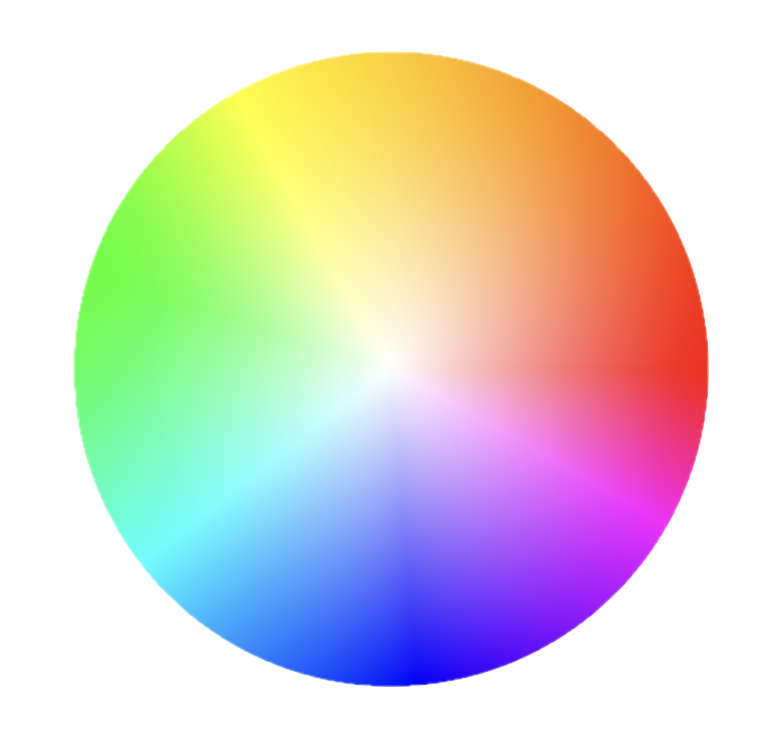
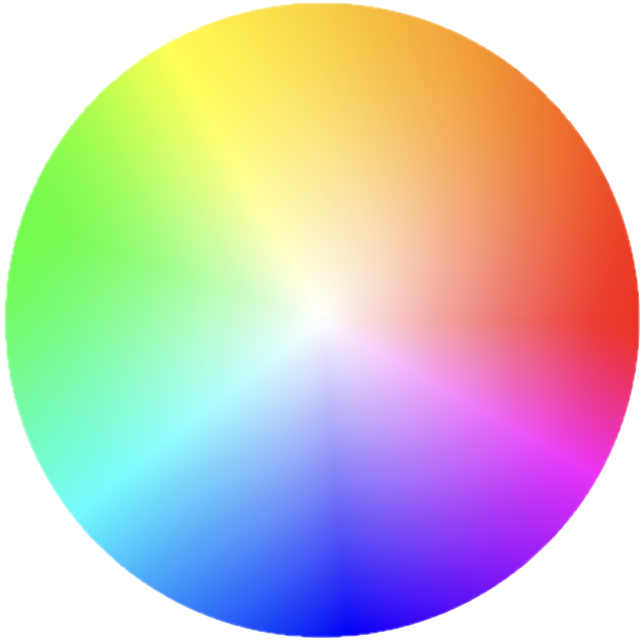
color harmony clean up

diff --git a/color-theory-and-flexible-code/index.html b/color-theory-and-flexible-code/index.html
@@ -1155,18 +1155,53 @@
   <section class="slide">
     <h2>Цветовые гармонии</h2>
     <div class="layout-flex" style="justify-content: center;">
-      <div>
-        <img src="pictures/img/palette-1.png" alt="palette-1" style="height:150px;" />
+      <div class="palette">
+        <span class="palette-name">Монохромная</span>
+        <div class="palette-wheel">
+          <span class="palette-color" style="top:5px;left:78px"></span>
+          <img src="pictures/img/color-wheel.png" alt="palette-1" style="height:130px;" /></div>
       </div>
-      <div>
+      <div class="palette">
+        <span class="palette-name">Комплиментарная</span>
+        <div class="palette-wheel">
+          <span class="palette-color" style="top:5px;left:78px"></span>
+          <span class="palette-color" style="top:100px;left:78px"></span>
+          <img src="pictures/img/color-wheel.png" alt="palette-1" style="height:130px;" /></div>
+      </div>
+      <div class="palette">
+        <span class="palette-name">Аналоговая</span>
+        <div class="palette-wheel">
+          <span class="palette-color" style="top:20px;left:45px"></span>
+          <span class="palette-color" style="top:5px;left:78px"></span>
+          <span class="palette-color" style="top:20px;left:110px"></span>
+          <img src="pictures/img/color-wheel.png" alt="palette-1" style="height:130px;" /></div>
+      </div>
+      <!-- <div>
         <img src="pictures/img/palette-2.png" alt="palette-2" style="height:150px;" />
       </div>
       <div>
         <img src="pictures/img/palette-3.png" alt="palette-3" style="height:150px;" />
-      </div>
+      </div> -->
     </div>
     <div class="layout-flex" style="justify-content: center;">
-      <div>
+      <div class="palette">
+        <span class="palette-name">Триада</span>
+        <div class="palette-wheel">
+          <span class="palette-color" style="top:5px;left:78px"></span>
+          <span class="palette-color" style="top:70px;left:35px"></span>
+          <span class="palette-color" style="top:70px;left:121px"></span>
+          <img src="pictures/img/color-wheel.png" alt="palette-1" style="height:130px;" /></div>
+      </div>
+      <div class="palette">
+        <span class="palette-name">Тетрада</span>
+        <div class="palette-wheel">
+          <span class="palette-color" style="top:20px;left:45px"></span>
+          <span class="palette-color" style="top:20px;left:110px"></span>
+          <span class="palette-color" style="top:85px;left:45px"></span>
+          <span class="palette-color" style="top:85px;left:110px"></span>
+          <img src="pictures/img/color-wheel.png" alt="palette-1" style="height:130px;" /></div>
+      </div>
+      <!-- <div>
         <img src="pictures/img/palette-4.png" alt="palette-4" style="height:150px;" />
       </div>
       <div>
@@ -1177,7 +1212,7 @@
       </div>
       <div>
         <img src="pictures/img/palette-7.png" alt="palette-7" style="height:150px;" />
-      </div>
+      </div> -->
     </div>
   </section>
 

diff --git a/color-theory-and-flexible-code/styles/demos/linked-colors.css b/color-theory-and-flexible-code/styles/demos/linked-colors.css
@@ -227,3 +227,30 @@
     background: hsl(from var(--theme-accent) calc(h + 30 * var(--i)) 70% 55%);
   }
 }
+
+.palette {
+  .palette-name {
+    width: 100%;
+    display: block;
+    text-align: center;
+    font-size: 1.1rem;
+    font-weight: bold;
+    opacity: 0.7;
+  }
+
+  .palette-wheel {
+    position: relative;
+    padding: 0;
+    width: 180px;
+    text-align: center;
+    box-sizing: border-box;
+
+    .palette-color {
+      position: absolute;
+      width: 25px;
+      height: 25px;
+      border-radius: 50%;
+      border: 2px solid black;
+    }
+  }
+}
